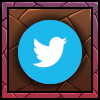
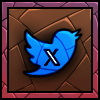
Twitter and colorwheel assets

diff --git a/index.html b/index.html
@@ -231,27 +231,15 @@ body::-webkit-scrollbar {
 	position:fixed;
 	top:0px;
 	left:0px;
-	width: 50px;
-	height: 50px;
-	background: conic-gradient(
-		from 180deg,
-		violet,
-		DodgerBlue,
-		yellowgreen,
-		yellow,
-		orange,
-		red,
-		violet
-	);
-	outline: black solid 1.5px;
-	margin: 12px;
+	width: 75px;
+	height: 75px;
 	border-radius: 50%;
 	opacity:0.5;
 }
 
 #colorbutton:hover {
 	opacity:1;
-	transition:100ms;
+	transition:200ms;
 }
 
 .graybutton {
@@ -289,33 +277,33 @@ body::-webkit-scrollbar {
 .scorebar {
 	max-width:300px;
 	width:50vw;
-	background-color: #808080;
+	background-color: #303030;
 	color: white;
 	font-family: sans-serif;
 	font-size: 24pt;
 	padding-left:10px;
 	padding-right:10px;
-	padding-top:5px;
-	padding-bottom:5px;
+	padding-top:3px;
+	padding-bottom:3px;
 	margin-left:5px;
 	margin-right:5px;
 	margin-top:5px;
-	margin-bottom:5px;
+	margin-bottom:3px;
 	border-radius: 10px;
 	height:fit-content;
 }
 
 .scorebar:hover {
-	background-color: #A0A0A0;
+	background-color: #505050;
 	transition:100ms;
 }
 
 .liked {
-	background-color: green !important;
+	background-color: #477a17 !important;
 }
 
 .favorited {
-	background-color: green !important;
+	background-color: #9d1c15 !important;
 }
 
 .fade:hover {
@@ -324,12 +312,19 @@ body::-webkit-scrollbar {
 }
 
 #x_button {
-	background-color: red;
+	background-color:black;
+	color:#A0A0A0;
 	position:fixed;
 	right:5%;
 	top:25px;
 	border-radius: 50%;
 	aspect-ratio:1;
+}
+
+#x_button:hover {
+	background-color: #8B0000;
+	transition:200ms;
+}
 }
 
 </style>
@@ -358,7 +353,7 @@ body::-webkit-scrollbar {
 		<h1 id="searchbar" class="nodrag" onclick="showTags()">Search...</h1>
 	</div>
 	<button id='x_button' onclick='modifySelection("","set");'> <b>X</b> </button>
-	<div id="colorbutton" onclick="switchMode()"></div>
+	<img id="colorbutton" onclick="switchMode()" src='Assets/b_color.png'>
 	<div id="focusbox" class="hidden nodrag">
 		<div id='focusback'  style="height:fit-content;width:100vw;">
 			<img id='focusimg' onclick="hideFocus()" style="max-height:70vh;width:100%;max-width:100%;object-fit:contain;image-rendering:pixelated;display:block;" src="Images/1.webp" class='nodrag'>
@@ -371,7 +366,8 @@ body::-webkit-scrollbar {
 		<div id='imgtaglist_below' class='nodrag' onclick="hideFocus()" style="width:100%;height:100vh;overflow:hidden;"></div>
 		<div id='focuslinks' class='nodrag'>
 			<div style='text-align:center;position:relative;display:block;'>
-				<img id='twitter' class="focusbar nodrag" src='Assets/b_twitter.png'>
+				<img id='twitter' class="focusbar nodrag fade" style="position:absolute;" src='Assets/b_twitter.png'>
+				<img id='twitter2' class="focusbar nodrag" src='Assets/b_twitter2.png'>
 			</div> 
 			<div style='text-align:center;position:relative;'>
 				<img id='reddit' class="focusbar nodrag fade" style="position:absolute;" src='Assets/b_reddit.png'>
